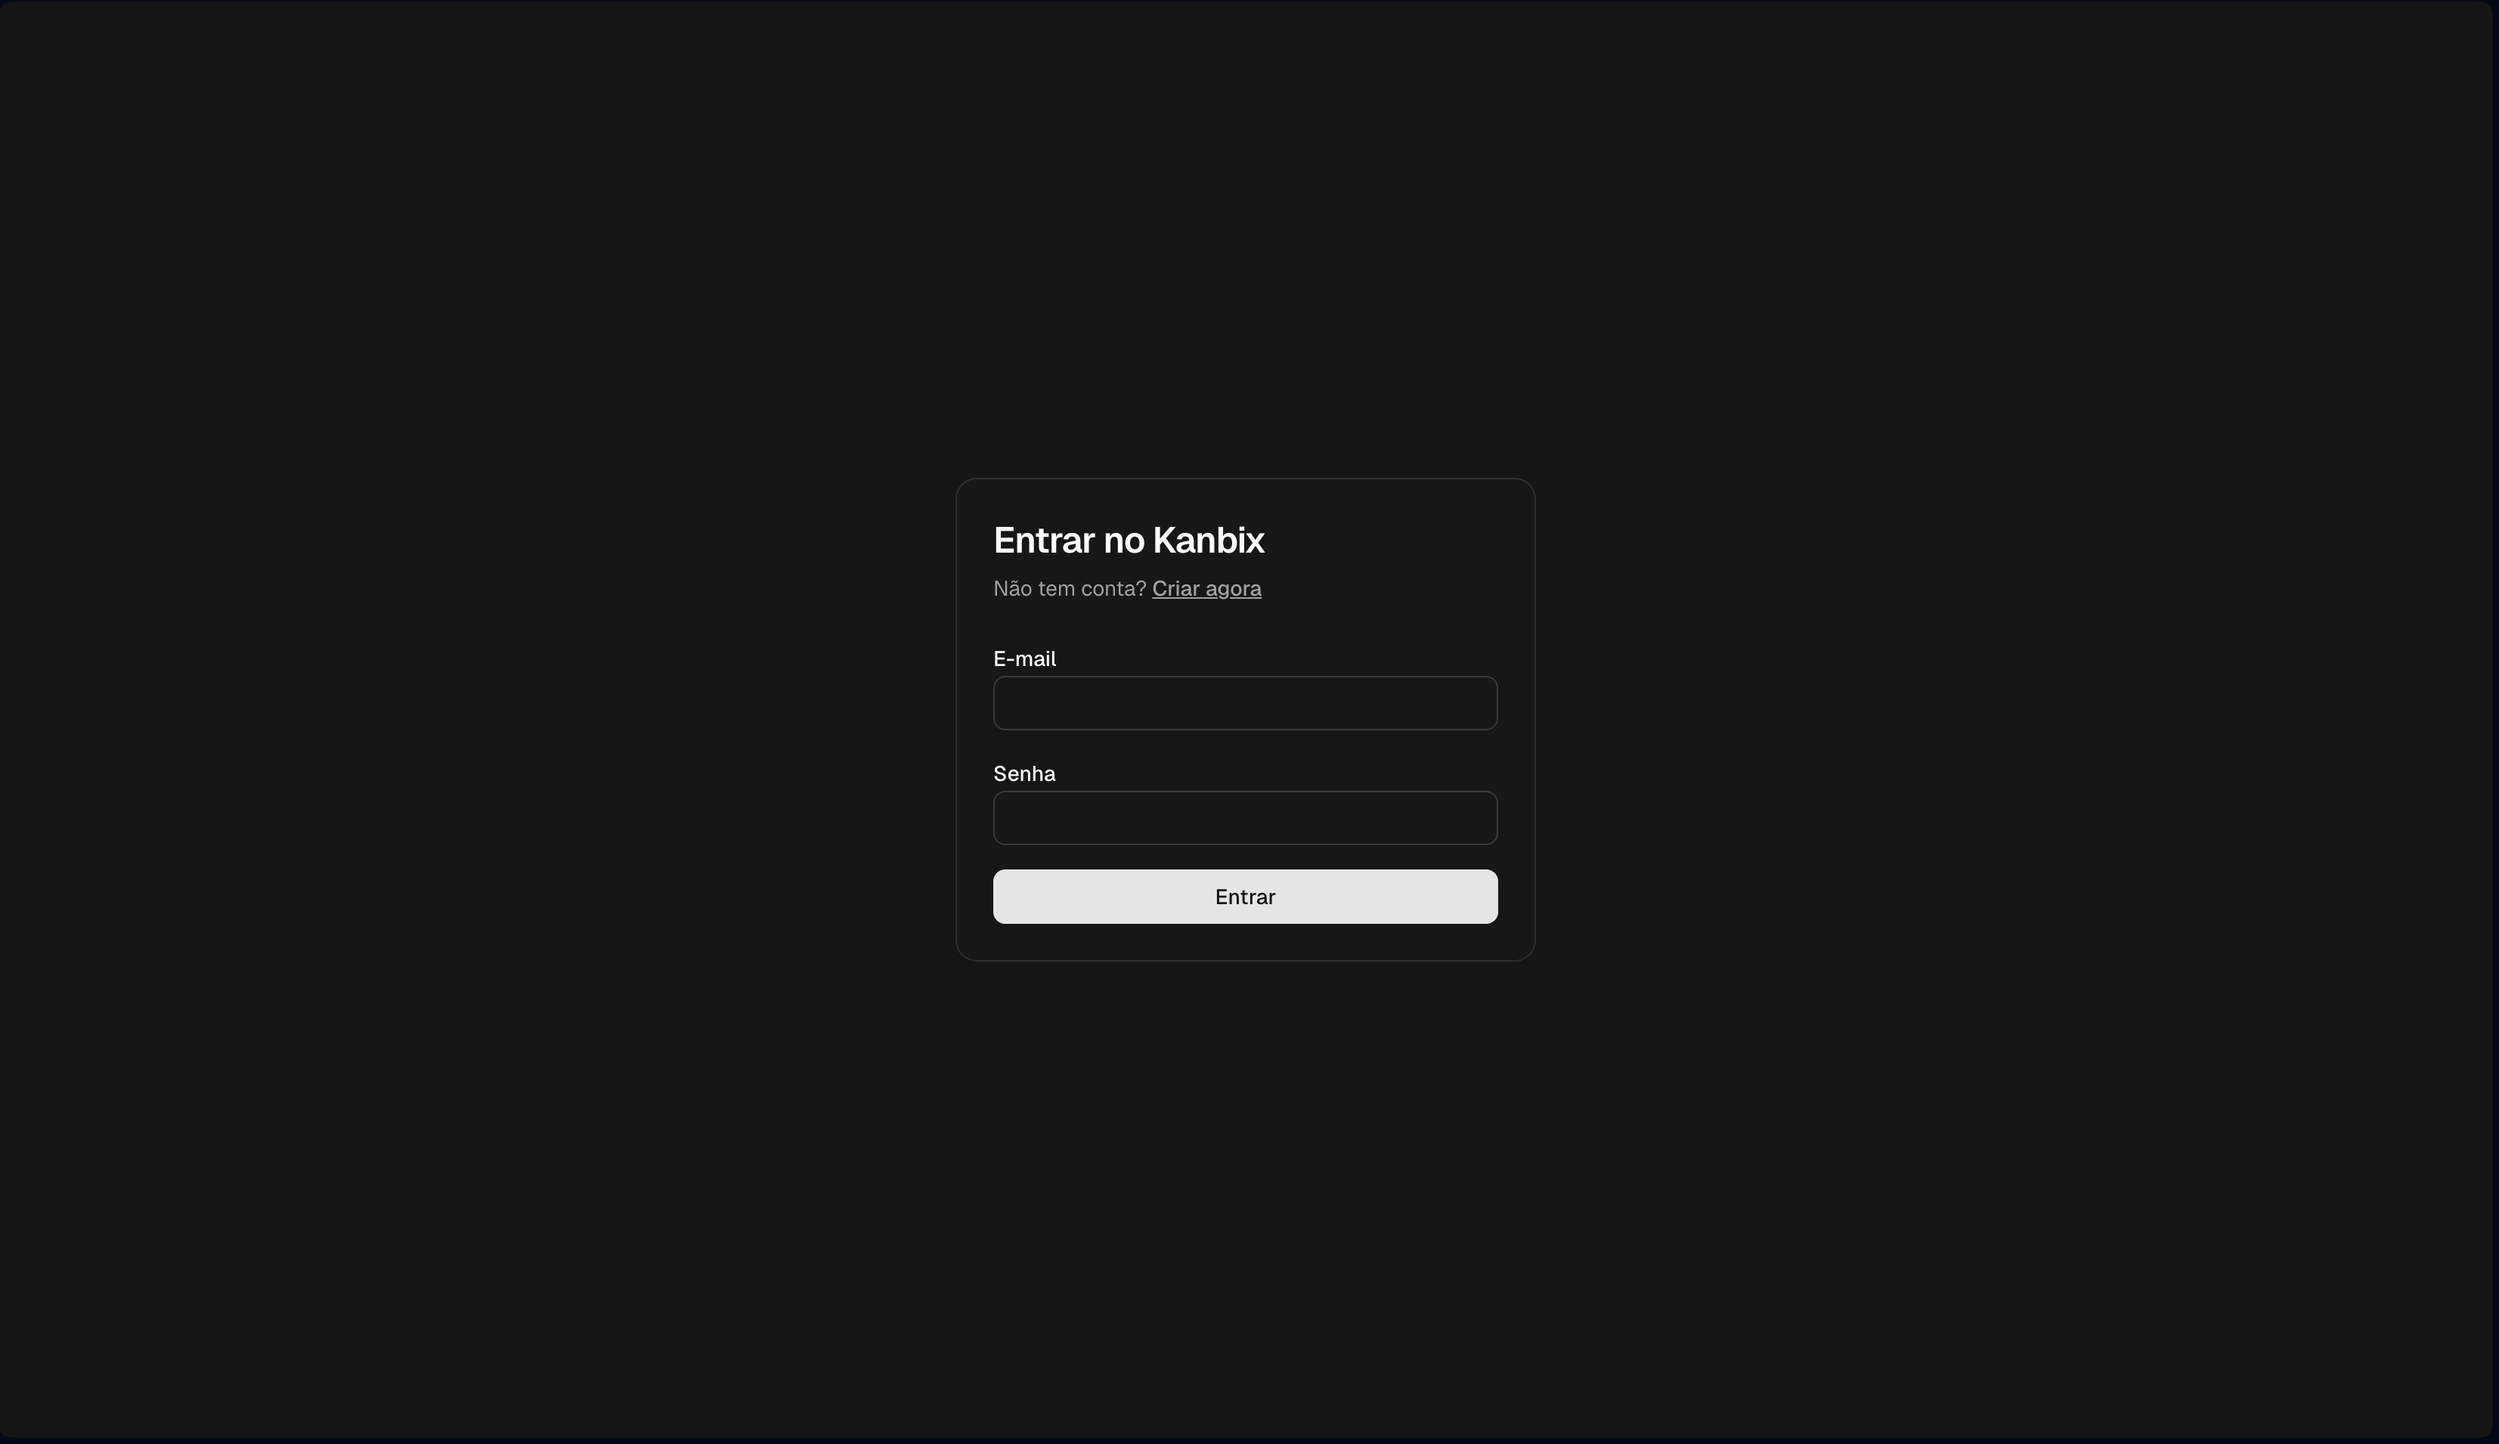
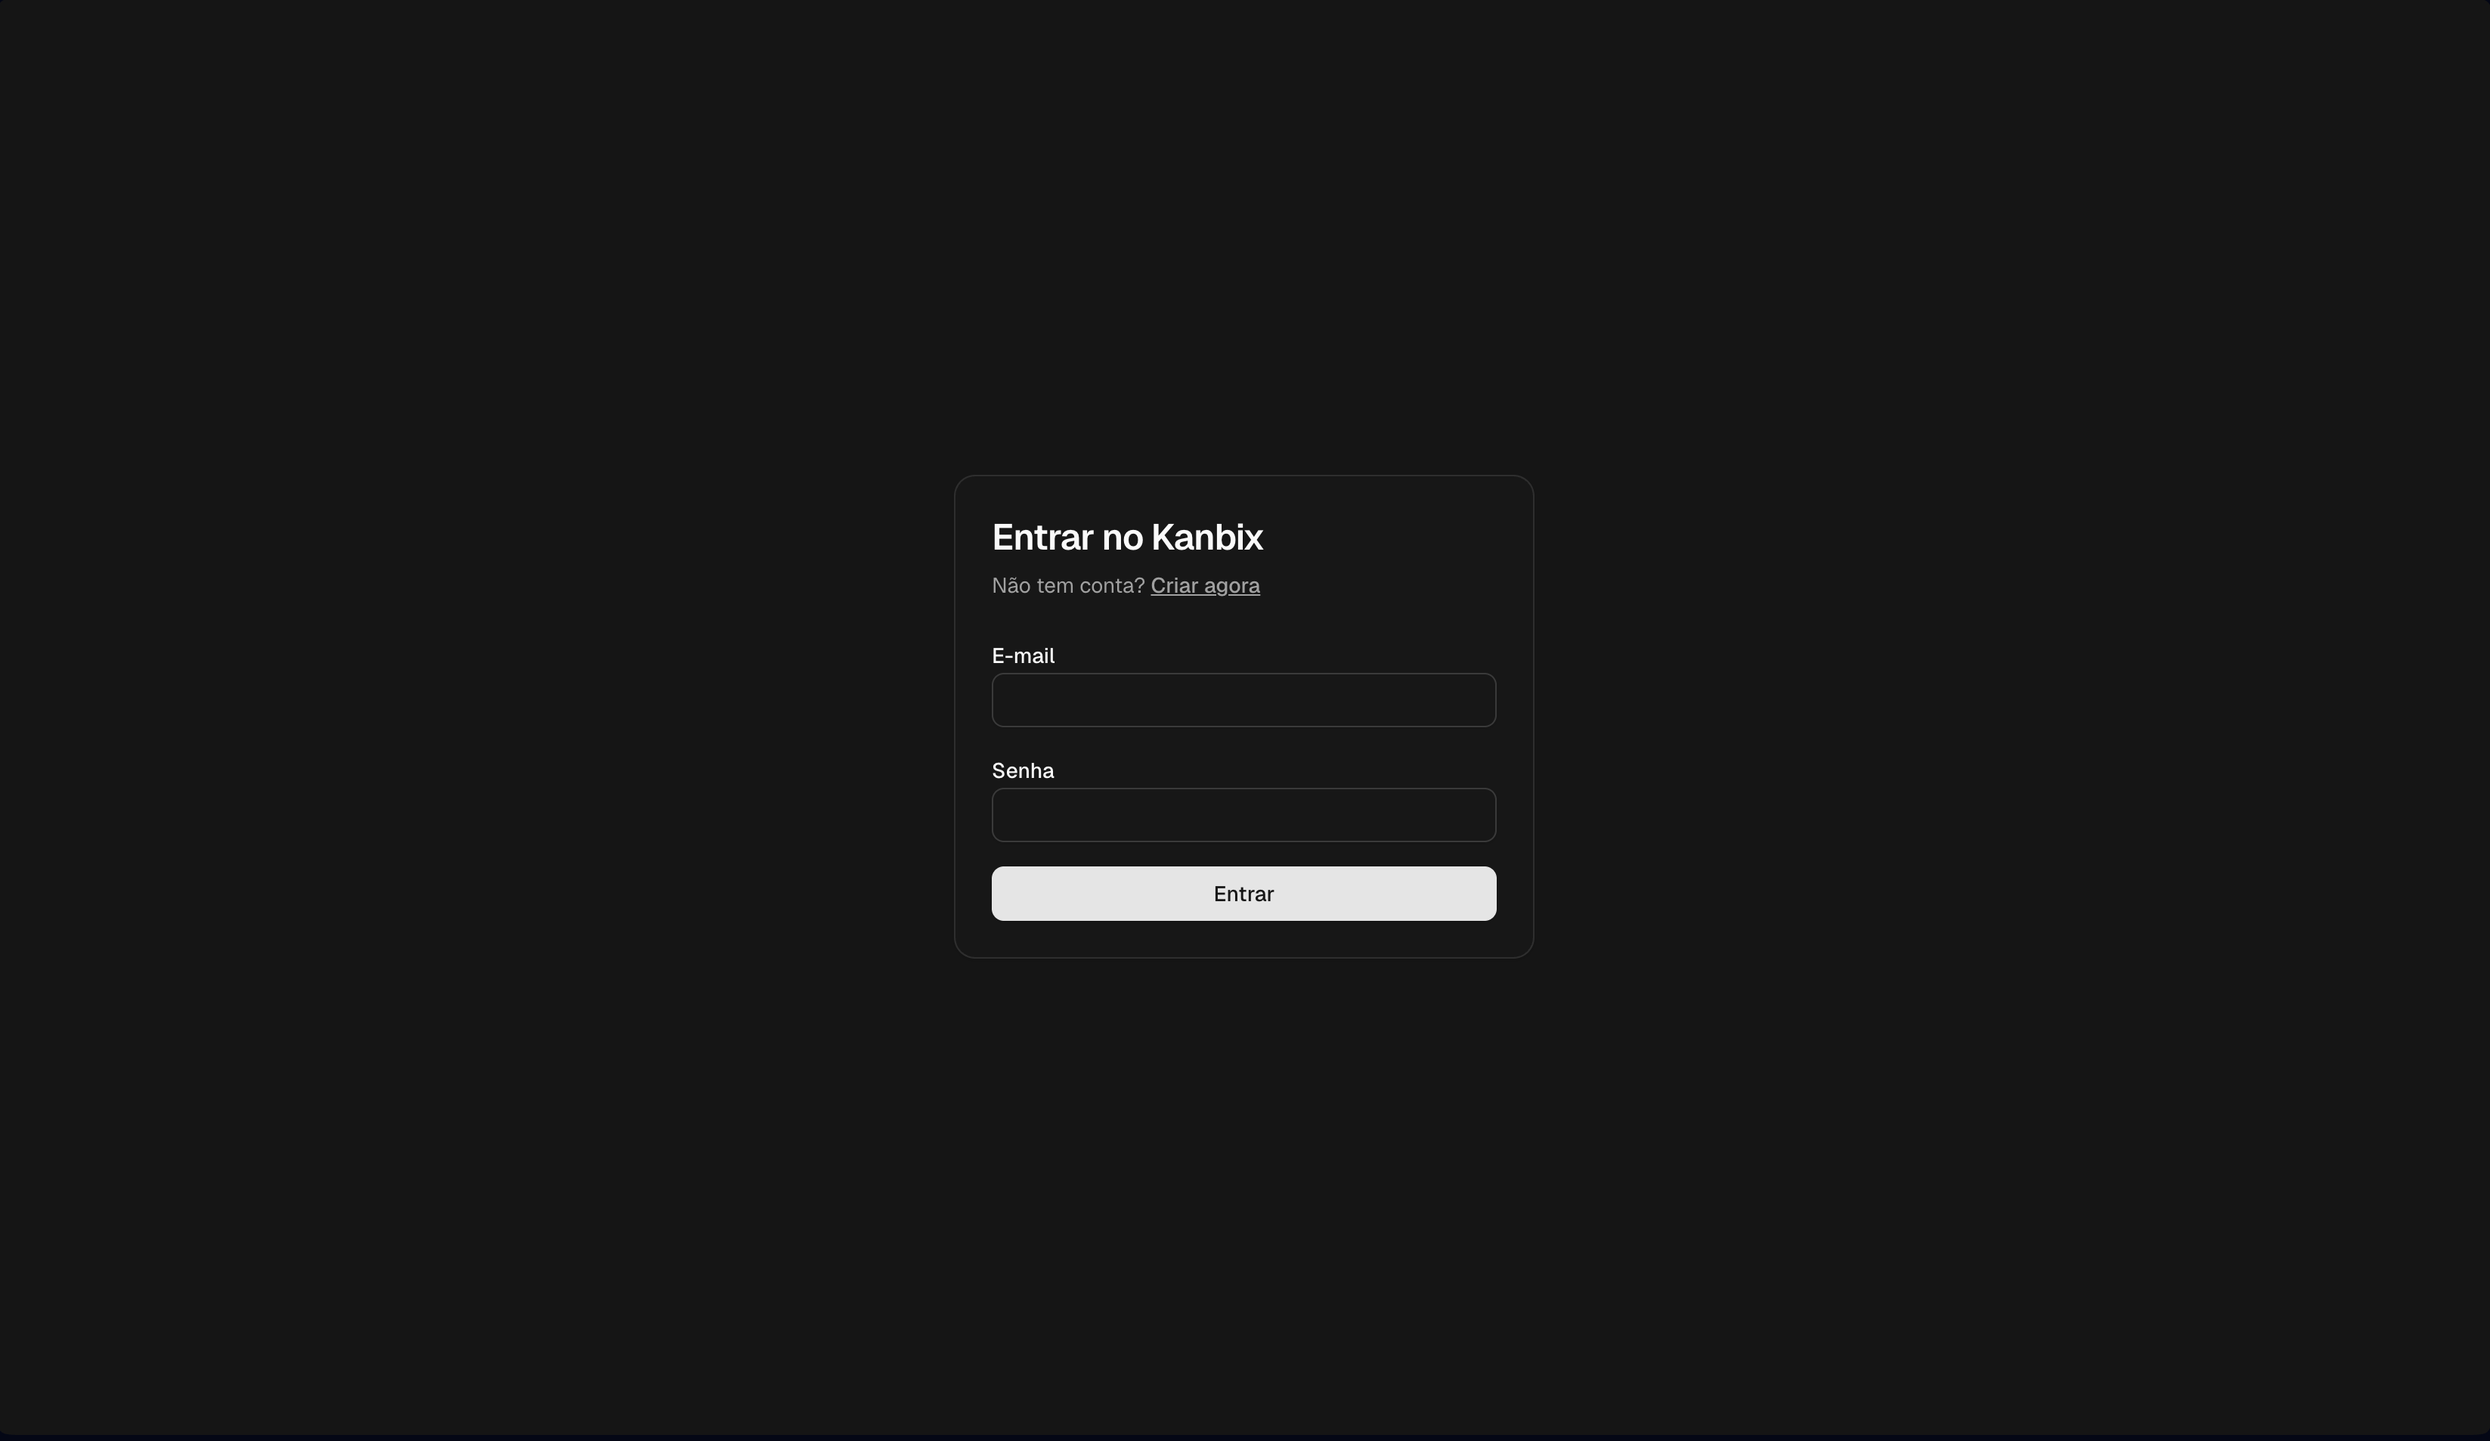
fix: remove import não utilizado e corrige casing da imagem do Kanbix

Changed region(s): [[0.4026, 0.3715, 0.5264, 0.4643], [0.4954, 0.6191, 0.5264, 0.6501], [0.4026, 0.5262, 0.4335, 0.5572]]

diff --git a/src/components/Projects.js b/src/components/Projects.js
@@ -1,8 +1,7 @@
 import ProjectCard from "./ProjectCard";
-import UnderConstruction from "../images/uc.jpg";
 import InMyFridgeShot from "../images/in-my-fridge.png";
 import ShortYourLinkShot from "../images/shortyourlink.png";
-import Kanbix from "../images/Kanbix.png";
+import Kanbix from "../images/kanbix.png";
 import { content, t } from "../translations/content";
 
 function Projects({ language }) {
